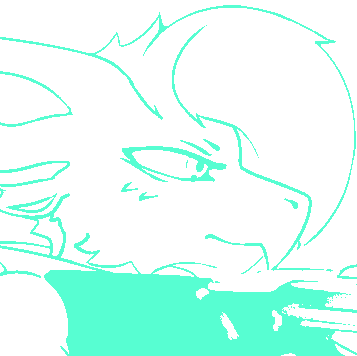
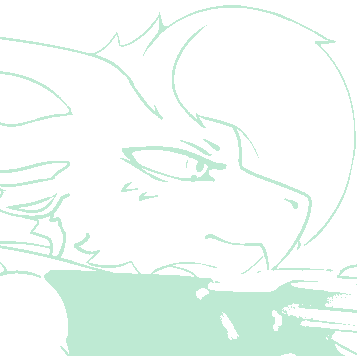
Proofreading by Lun

diff --git a/assets/css/mint.css b/assets/css/mint.css
@@ -1,26 +1,26 @@
-/* MintyFreshFluffy's Lore Document Stylesheet */
+/* Lore Document Stylesheet */
 body {
   background-color: #17201B;
-  color: #57FED2;
-  font-family: 'Courier New', Courier, monospace;
-  font-size: medium;
+  color: #BEEAD3;
+  font-family: SFMono-Regular, Consolas, "Liberation Mono", Menlo, Courier, monospace;
+  font-size: 11.5pt;
   /*overflow-x: hidden;*/
 }
 
-.separator {
-  border-color: #57FED2;
+/* .separator {
+  border-color: #BEEAD3;
   border-radius: 0;
   border-style: none none dashed none;
   border-width: 2px;
   margin-bottom: 6px;
-}
+} */
 
 .separator::after {
   content: "";
   width: inherit;
   display: block;
   padding: 3px;
-  border-color: #57FED2;
+  border-color: #BEEAD3;
   border-radius: 0;
   border-style: none none dashed none;
   border-width: 2px;
@@ -37,7 +37,7 @@ h1 {
   font-size: large;
   font-weight: normal;
   line-height: 2;
-  white-space: nowrap; 
+  white-space: nowrap;
 }
 
 h2 {
@@ -51,7 +51,6 @@ h2 {
 }
 
 p {
-  font-size: medium;
   margin-inline-start: 16px;
   margin-inline-end: 16px;
   white-space: pre-line;
@@ -73,7 +72,7 @@ a:link {
   
 /* visited link */
  a:visited {
-    color: #57FED2;
+    color: #BEEAD3;
 }
 
 pre {
@@ -161,11 +160,12 @@ header #topnav > a:hover {
 
 .flexbox-bar article,
 .flexbox article {
-  border-color: #57FED2;
+  border-color: #BEEAD3;
   border-radius: 4px;
   border-width: 1px;
   border-style: solid;
   margin: 4px;
+  flex-grow: 1;
 }
 
 /*Remove excess border from text elements*/
@@ -193,9 +193,9 @@ header #topnav > a:hover {
 
 
 /* CRT Shader */
-body {
+/* body {
   text-shadow: 2px 0 1px rgba(0,30,255,0.5), -2px 0 1px rgba(255,0,80,0.3), 0 0 3px;
-}
+} */
 
 body::before {
   content: " ";
@@ -228,7 +228,7 @@ body::after {
 
 /* Text Styles */
 .obfuscated {
-  text-shadow: 0 0 5px #57FED2, 0 0 5px #57FED2, 0 0 10px #57FED2, 0 0 10px #57FED2;
+  text-shadow: 0 0 5px #BEEAD3, 0 0 5px #BEEAD3, 0 0 10px #BEEAD3, 0 0 10px #BEEAD3;
   color: #FFFFFF00;
   /*z-index: 1;*/
   user-select: none;
@@ -236,7 +236,12 @@ body::after {
 
 .narrated {
   text-shadow: 0 0 5px #8f0000;
-  color: #fe5757;
+  color: #fe5757 !important;
+}
+
+.thirdparty {
+  /* text-shadow: 0 0 5px Orange; */
+  color: Orange !important;
 }
 
 .violent:hover {
@@ -252,7 +257,7 @@ body::after {
 .stat-sheet {
   float: left;
   padding: 8px;
-  border-color: #57FED2;
+  border-color: #BEEAD3;
   border-radius: 4px;
   border-width: 1px;
   border-style: solid;
@@ -266,16 +271,52 @@ body::after {
 .profile-img,
 img {
   padding: 8px;
-  border-color: #57FED2;
+  border-color: #BEEAD3;
   border-radius: 4px;
   border-width: 1px;
   border-style: solid;
   margin: 8px;
   margin-right: 16px;
   width: fit-content;
+  max-width: 90%;
+  max-height: 500px;
 }
 
 .profile-img {
   /* float: left; */
   height: 270px;
+}
+
+.logo {
+  padding: 0px;
+  border-style: none;
+  margin: 0px;
+  margin-right: 4px;
+  width: 40px;
+  float:left;
+}
+
+figure {
+  padding: 8px;
+  border-color: #BEEAD3;
+  border-radius: 4px;
+  border-width: 1px;
+  border-style: solid;
+  margin: 8px;
+  margin-right: 16px;
+  width: fit-content;
+  max-width: 90%;
+  display: table;
+}
+
+figure figcaption {
+  contain: inline-size;
+}
+
+figure img {
+  max-width: 100%;
+  margin: 0;
+  border-radius: 0px;
+  border-width: 0px;
+  padding: 0;
 }

diff --git a/places/innovations-reach.html b/places/innovations-reach.html
@@ -1,0 +1,42 @@
+<!DOCTYPE html>
+<html>
+<head>
+  <meta charset="UTF-8">
+  <meta name="description" content="Details about the Mira family household.">
+  <meta name="keywords" content="SCSI, original character, lore">
+  <meta name="author" content="aleximine">
+  <meta name="viewport" content="width=device-width, initial-scale=1.0">
+  
+  <meta name="theme-color" content="#57FED2">
+  
+  <meta property="og:description" content="Details about the Mira family household.">
+  <meta property="og:theme-color" content="#57FED2">
+  
+  <title>SCSI://LOCATIONS/INNOVATIONS_REACH</title> 
+  <link rel="stylesheet" href="../assets/css/mint.css">
+  <link rel="stylesheet" href="../assets/css/dynamic_content.css">
+  <link rel="shortcut icon" href="../scsi_icon.png" type="image/x-icon"/>
+</head>
+<body>
+  <h2 class="separator">
+    <a href="">MINT</a>://LOCATIONS<br>
+    Innovation's Reach<br>
+  </h2>
+  <main>
+
+    <p class="stat-sheet">PLANETARY SYSTEM: Tectis 6
+      PLANET: [DECRYPTING...]
+    </p>
+
+    <h2></h2>
+    <p>A centralized base for <a href="../people/ezra.html">Ezra Lomura</a>'s work in engineering and life. It is situated on a planet in the Tectis system; an atmospheric planet with a forest that spans a chunk of the solid surface. It never stops raining, but it fluctuates from a drizzle to a torrential downpour. Additionally, the forest constantly has a slight fogginess to it.
+      Innovation's Reach Workshop is made up of three domes with reinforced-glass for much of the surface area. One dome is for her resting area, another for general use like food preparation, and the third, largest, has a workspace for personal weapons and suits, with an underground docking bay for any ships that Ezra works on.
+      
+      The planet otherwise is as close to untouched as possible. Ezra Lomura recieves weekly shipments from her original home world's production facilities to the Workshop. These shipments contain miscellaneous items, food, and any made-to-order parts. 
+    </p>
+  </main>
+<footer>
+  <h2><a href="../index.html">RETURN</a></h2>
+</footer>
+</body>
+</html>

diff --git a/people/ezra.html b/people/ezra.html
@@ -12,7 +12,7 @@
   <meta property="og:description" content="Details about Ezra Lomura.">
   <meta property="og:theme-color" content="#57FED2">
   <title>MINT://EZRA</title>
-  <link rel="stylesheet" href="../assets/css/scsi.css">
+  <link rel="stylesheet" href="../assets/css/mint.css">
   <link rel="stylesheet" href="../assets/css/dynamic_content.css">
   <link rel="shortcut icon" href="../scsi_icon.png" type="image/x-icon"/>
 </head>
@@ -27,14 +27,13 @@
       Height --------- 6ft 1in / 185 cm
       Weight --------- 210 lbs
       Age ------------ [DECRYPTING...]
-      
       Gender --------- Demigirl
       Pronouns ------- [She / Her] / [They / Them]
       Sexuality ------ [UNDECRYPTED]
       Personality ---- Experimental / Inventive
       
       Birthplace ----- <span>[NO DATA]</span>
-      Residence ------ Innovation's Reach Workshop
+      Residence ------ <a href="../places/innovations-reach.html">Innovation's Reach Workshop</a>
       
       Favorite Food -- [UNDECRYPTED]
       Favorite Drink - [UNDECRYPTED]
@@ -49,20 +48,20 @@
      </p>
     </article>
     
-    <p>Ezra Lomura is an Archound who specializes primarily in the field of engineering. Most notably of which, and most recently, being the area of spacecraft modifications and personal weapons systems. She took a keen interest in piloting not soon after her lab generation, and soon after, began her flight training for certification with the Independent Spacecraft Pilot’s Association of her home world. Once Ezra completed the (very rigorous) training and acquired their ISPA certification, they were gifted a basic, spare vessel by <span class="obfuscated">REDACTED</span>, and soon after, took off from their home world.
-      Ezra’s career was built upon contract work both as a pilot and as an engineering professional. She provided her services, often as both a test pilot for experimental spacecraft, and engineer for extra tuning on some of these vessels. 
+    <p>Ezra Lomura is an Archound who specializes primarily in the field of engineering. Most notably of which, and most recently, being the area of spacecraft modifications and personal weapons systems. She took a keen interest in piloting not soon after her lab generation, and began her flight training for certification with the Independent Spacecraft Pilot’s Association of her home world. Once Ezra completed the (very rigorous) training and acquired their ISPA certification, they were gifted a basic, spare vessel by <span class="obfuscated">REDACTED</span>, and soon after, took off from their home world.
+      Ezra’s career was built upon contract work both as a pilot and as an engineering professional. She provided her services, often as both a test pilot for experimental spacecraft and engineer for extra tuning on some of these vessels. 
     </p>
 
     <h2>[<a href="../places/neon-meow.html">Neon Meow</a>]</h2>
     <p>One such contract had seen her and <span class="narrated">the benefactor</span> meet to discuss work on a planet only <span class="narrated">the benefactor</span> had been to. The planet and the system it resided in, both, weren’t anywhere in Ezra’s saved cartographic data. Regardless, Ezra found a secluded place for her ship to drop her off and found one of the world’s ground shuttles to meet the unnamed contract-giver at a nightclub, called the <a href="../places/neon-meow.html">Neon Meow</a>. 
-      Sadly, for both parties, negotiations fell through, and the benefactor reportedly became increasingly aggressive. The Archound admitted to drawing her plasma handgun, hidden in her ISPA pilot’s casual wear jacket, after <span class="narrated">the benefactor</span> took a swing at her. Security was reported to have quickly defused the situation and escorted the contractor out. Ezra took the free time she was given to enjoy the club, and was made a drink by the snow-leopard bartender, who saw everything unfold, as apologies for <span class="narrated">the benefactor</span>’s behavior. 
+      Sadly, for both parties, negotiations fell through, and <span class="narrated">the benefactor</span> reportedly became increasingly aggressive. The Archound admitted to drawing her plasma handgun, hidden in her ISPA pilot’s casual wear jacket, after <span class="narrated">the benefactor</span> took a swing at her. Security was reported to have quickly defused the situation and escorted the contractor out. Ezra took the free time she was given to enjoy the club, and was made a drink by the snow leopard bartender, who saw everything unfold, as apologies for <span class="narrated">the benefactor</span>’s behavior. 
       Unfortunately, Archounds are very susceptible to alcoholic beverages. Ezra was provided a temporary stay in one of the establishment's staff rooms to sleep for the night, and returned to her vessel in the morning with her head feeling like it was splitting. She reported the hangover symptoms as her “brain getting stabbed” and her “afterburners sounded like screams in my ear.”
     </p>
     
     <h2>[Settlement and Career]</h2>
     <p>After the events of <a href="../places/neon-meow.html">Neon Meow</a>, between contract work, she’d occasionally come back to <a href="../places/nocturne-city.html">Nocturne City</a>, having her small vessel drop her off and pick her up like the first time she had came. Not only was it great for a sense of community, but on occasion, she would find herself modifying the very primitive ballistic weaponry of some of the people she met for this culture’s currency.
-      Eventually, between some years of her work on Earth and elsewhere, she made enough to set up a centralized base for her work. Ezra chose a planet in the Tectis system, an atmospheric planet with a forest that spans a chunk of the solid surface. It never stops raining, but it fluctuates from a drizzle to a torrential downpour. The forest constantly has a slight fogginess to it. 
-      Ezra took advantage, and set up a homebase. Their settlement, the <a href="../places/innovations-reach.html">Innovation’s Reach Workshop</a>, is made up of three domes with reinforced-glass for much of the surface area. One dome is for her resting area, another for general use like food preparation, and the third, largest, has a workspace for personal weapons and suits, with an underground docking bay for any ships that she works on.
+      Eventually, between some years of her work on Earth and elsewhere, she made enough to set up a centralized base for her work. Ezra chose a planet in the Tectis system; an atmospheric planet with a forest that spans a large portion of the planet's surface. It never stops raining, but it fluctuates from a drizzle to a torrential downpour. The forest constantly has a slight fogginess to it. 
+      Ezra took advantage, and set up a homebase. Their settlement, the <a href="../places/innovations-reach.html">Innovation’s Reach Workshop</a>, is made up of three domes with reinforced glass for much of the surface area. One dome is for her resting area, another for general use like food preparation, and the third, largest, has a workspace for personal weapons and suits, with an underground docking bay for any ships that she works on.
     </p>
 
     <h2>[Current Life]</h2>

diff --git a/people/landlord.html b/people/landlord.html
@@ -21,7 +21,7 @@
       Age ------------ [DECRYPTING...]
       
       Gender --------- Male
-      Pronouns ------- None Documented
+      Pronouns ------- [NO DATA]
       Sexuality ------ <span class="obfuscated">█████████████</span>
       Personality ---- [<span class="narrated">TRUSTWORTHY</span>]
       

diff --git a/people/mira.html b/people/mira.html
@@ -48,7 +48,7 @@
         <a href="ouras.html">Heather Ouras</a> ------- Friend; Assigned proximity by Aurin.
         <a href="kavinskaya.html">Amy Kavinskaya</a> ------ [NO DATA]
         <a href="crow.html">Silver Praehun</a> ------ Friend
-        <a href="ezra.html">Ezra Lomura</a> ---------------- Friend
+        <a href="ezra.html">Ezra Lomura</a> --------- Friend
         <a href="landlord.html">Owner of Neon Meow</a> -- Previous Employer
       </p>
     </article>